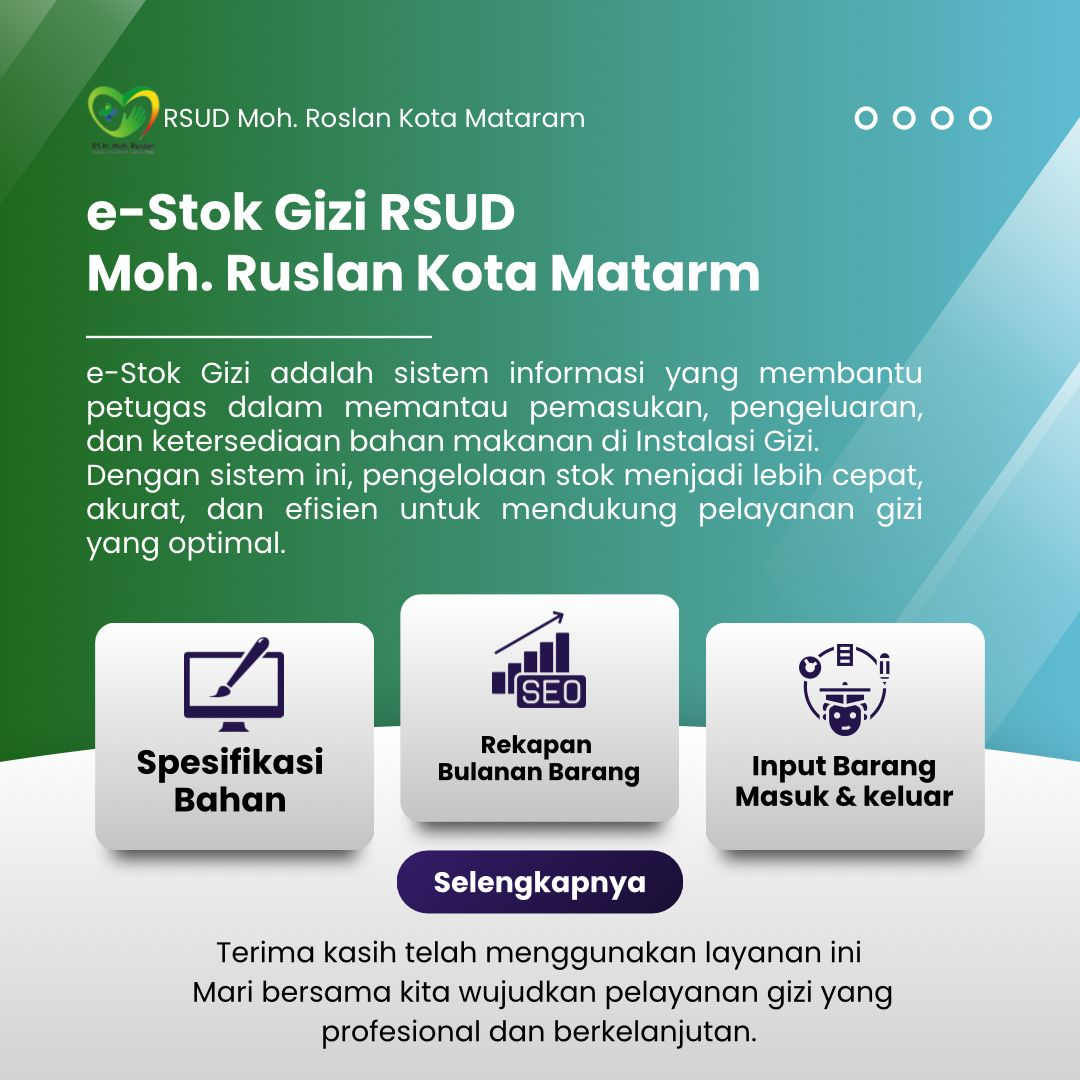
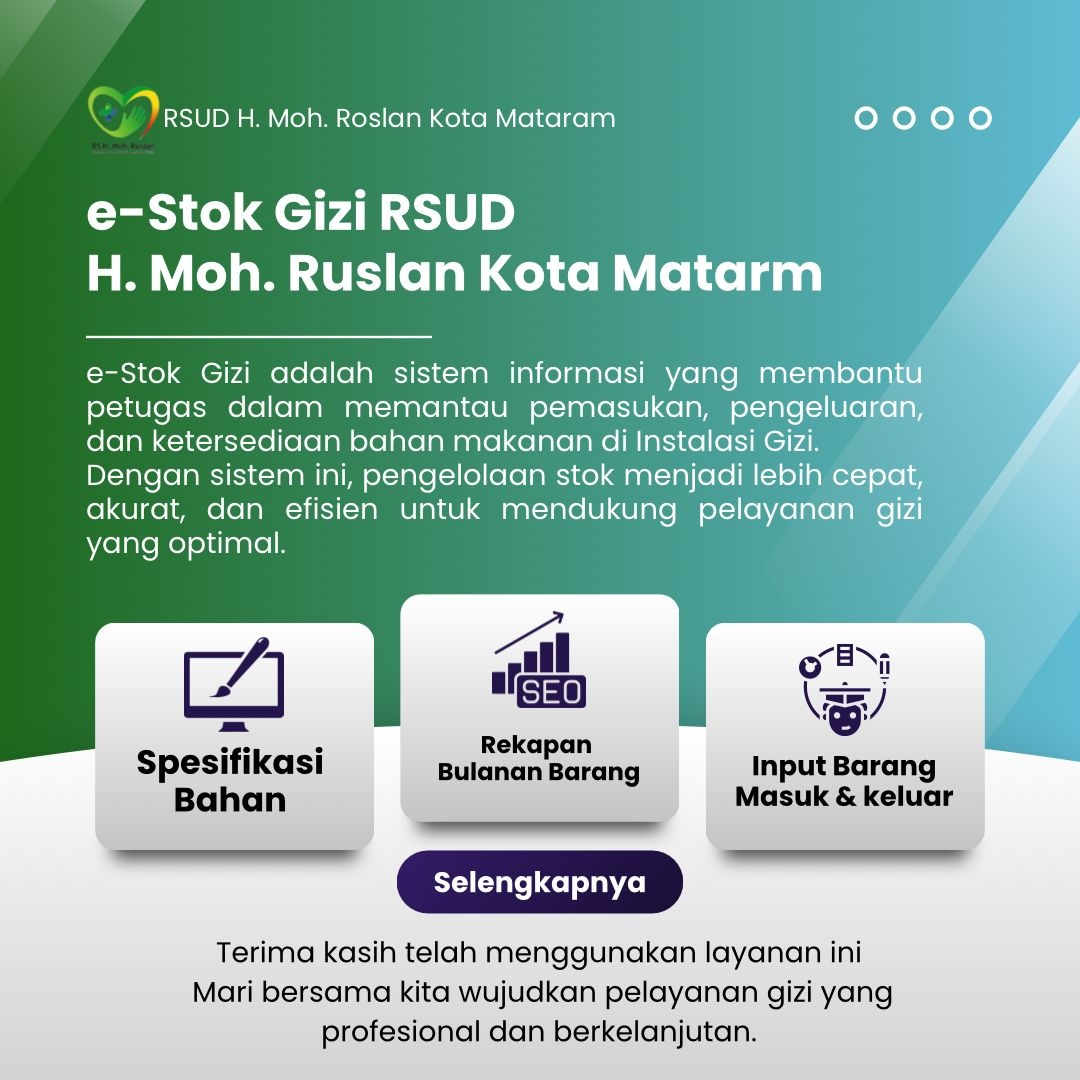
push

Changed region(s): [[0.0917, 0.2139, 0.7639, 0.275], [0.2139, 0.0917, 0.5806, 0.1222]]

diff --git a/src/app/page.tsx b/src/app/page.tsx
@@ -20,7 +20,7 @@ export default function Home() {
             priority
           />
           <div>
-            <p className="text-sm font-semibold">RSUD Moh. Roslan Kota Mataram</p>
+            <p className="text-sm font-semibold">RSUD H Moh. Roslan Kota Mataram</p>
             <p className="text-xs">RS Umum Moh. Roslan</p>
           </div>
         </div>
@@ -52,7 +52,7 @@ export default function Home() {
           <h1 className="text-3xl sm:text-4xl md:text-5xl font-bold mb-4">
             e-Stok Gizi RSUD
             <br />
-            Moh. Ruslan Kota Mataram 
+            H Moh. Ruslan Kota Mataram 
           </h1>
           <p className="text-base sm:text-lg leading-relaxed">
             e-Stok Gizi adalah sistem informasi yang membantu
